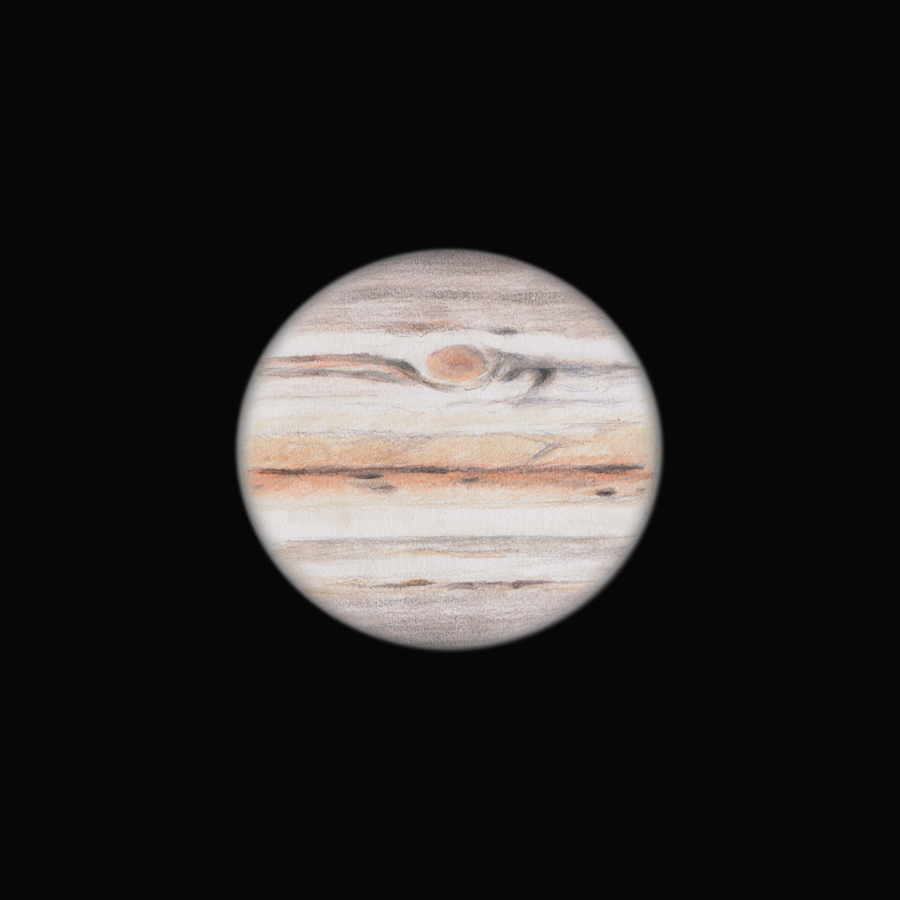
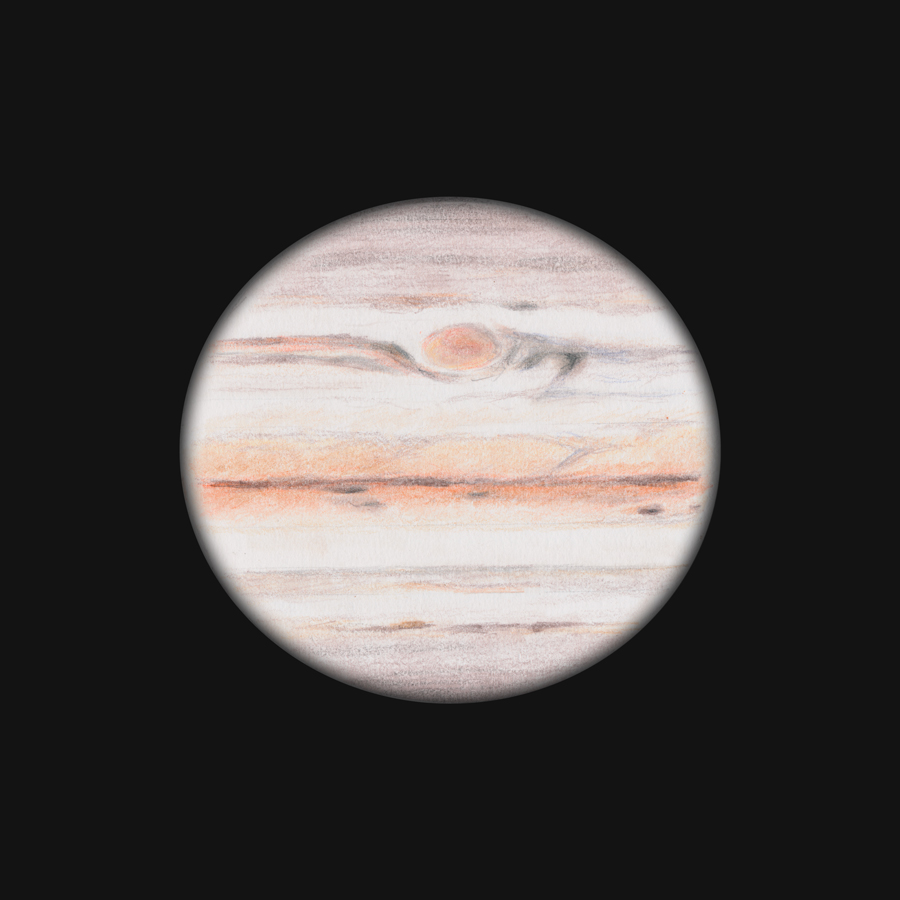
feat: new jupiter post

Changed region(s): [[0.1867, 0.2178, 0.8089, 0.8089]]

diff --git a/layouts/partials/sidebar.html b/layouts/partials/sidebar.html
@@ -1,7 +1,7 @@
 
 <div class="sidebar">
     <section class="mb-4">
-        <h3 class="font-bold text-sm uppercase mb-2 text-lightBlue"><a class="" href="/categories/">Catégories</a></h3>
+        <h3 class="font-bold text-sm uppercase mb-2 text-lightYellow"><a class="" href="/categories/">Catégories</a></h3>
         <ul class="text-xs text-white">
             {{ range .Site.Taxonomies.categories }}
             <li><a class="hover:underline" href="{{ .Page.Permalink }}">{{ .Page.Title }}</a> 
@@ -12,7 +12,7 @@
     </section>
 
     <section class="mb-4">
-        <h3 class="font-bold text-sm uppercase mb-2 text-lightBlue"><a class="" href="/tags/">Types</a></h3>
+        <h3 class="font-bold text-sm uppercase mb-2 text-lightYellow"><a class="" href="/tags/">Types</a></h3>
         <ul class="text-xs text-white">
             {{ range .Site.Taxonomies.tags }}
             <li><a class="hover:underline" href="{{ .Page.Permalink }}">{{ .Page.Title }}</a> 
@@ -22,7 +22,7 @@
     </section>
 
     <section class="mb-4">
-        <h3 class="font-bold text-sm uppercase mb-2 text-lightBlue"><a class="" href="/catalogs/">Catalogues</a></h3>
+        <h3 class="font-bold text-sm uppercase mb-2 text-lightYellow"><a class="" href="/catalogs/">Catalogues</a></h3>
         <ul class="text-xs text-white flex flex-row flex-wrap ">
             {{ range .Site.Taxonomies.catalogs }}
             <li class="mr-2"><a  class="hover:underline mr-1" href="{{ .Page.Permalink }}">.{{ .Page.Title }}</a><span class="text-gray1" style="font-size: 11px;">({{ .Count }})</span></li>
@@ -31,7 +31,7 @@
     </section>
 
     <section class="mb-4">
-        <h3 class="font-bold text-sm uppercase mb-2 text-lightBlue"><a class="" href="/constellations/">Constellations</a></h3>
+        <h3 class="font-bold text-sm uppercase mb-2 text-lightYellow"><a class="" href="/constellations/">Constellations</a></h3>
         <ul class="text-xs text-white flex flex-row flex-wrap">
             {{ range .Site.Taxonomies.constellations }}
             <li><a  class="hover:underline mr-2" href="{{ .Page.Permalink }}">.{{ .Page.Title }}</a></li>

diff --git a/layouts/_default/single.html b/layouts/_default/single.html
@@ -14,7 +14,7 @@
                 <h1 class="text-4xl lg:text-5xl font-serif font-bold mb-8"><span class="text-white bg-blue-custom leading-tight">{{ .Title }}</span></h1>
                 <div>
                     <ul class="text-gray1">
-                        {{ if isset .Params "date" }}<li class="text-lightBlue"><strong>Date : </strong><span class="text-sm">{{ dateFormat "02-01-2006" .Params.date }} {{ if isset .Params "hours" }} - {{ .Params.hours }}{{ end }}</span></li>{{ end }}
+                        {{ if isset .Params "date" }}<li class="text-lightYellow"><strong>Date : </strong><span class="text-sm">{{ dateFormat "02-01-2006" .Params.date }} {{ if isset .Params "hours" }} - {{ .Params.hours }}{{ end }}</span></li>{{ end }}
                         {{ if isset .Params "location" }}<li><strong class="text-white">Lieu : </strong><span class="text-sm">{{ .Params.location }}</span></li>{{ end }}
                         {{ if isset .Params "instrument" }}<li><strong class="text-white">Instrument : </strong><span class="text-sm">{{ .Params.instrument }}</span></li>{{ end }}
                         {{ if isset .Params "eyepiece" }}<li><strong class="text-white">Oculaire : </strong><span class="text-sm">{{ .Params.eyepiece }}</span></li>{{ end }}

diff --git a/layouts/partials/search-form.html b/layouts/partials/search-form.html
@@ -17,7 +17,7 @@
                   <span class="font-serif text-white" x-text="result.title"></span>
                   <span class="text-xs" x-text="result.date"></span>
                 </div>
-                <svg class="DocSearch-Hit-Select-Icon text-lightBlue" width="20" height="20" viewBox="0 0 20 20"><g stroke="currentColor" fill="none" fill-rule="evenodd" stroke-linecap="round" stroke-linejoin="round"><path d="M18 3v4c0 2-2 4-4 4H2"></path><path d="M8 17l-6-6 6-6"></path></g></svg>
+                <svg class="DocSearch-Hit-Select-Icon text-lightYellow" width="20" height="20" viewBox="0 0 20 20"><g stroke="currentColor" fill="none" fill-rule="evenodd" stroke-linecap="round" stroke-linejoin="round"><path d="M18 3v4c0 2-2 4-4 4H2"></path><path d="M8 17l-6-6 6-6"></path></g></svg>
               </a>
             </li>
         </template>

diff --git a/layouts/partials/thumbnail.html b/layouts/partials/thumbnail.html
@@ -8,7 +8,7 @@
       {{ if eq $image_ext "gif" }}
       <img class="w-full" :class="!darkMode ? 'filter invert':''" src="{{ $image.RelPermalink }}" />
       {{ else }}
-      <img class="w-full" :class="!darkMode ? 'filter invert':''" src="{{ ($image.Fill "500x400 jpg q75 Lanczos Smart").RelPermalink }}" srcset="{{ ($image.Fill "500x400 jpg q75 Lanczos Smart").RelPermalink }} 1x,{{ ($image.Fill "1000x800 jpg q75 Lanczos Smart").RelPermalink }} 2x"/>
+      <img class="w-full" :class="!darkMode ? 'filter invert':''" src="{{ ($image.Fill "500x400 jpg q75 Lanczos Center").RelPermalink }}" srcset="{{ ($image.Fill "500x400 jpg q75 Lanczos Center").RelPermalink }} 1x,{{ ($image.Fill "1000x800 jpg q75 Lanczos Center").RelPermalink }} 2x"/>
       {{ end }}
     </picture>
   {{ end }}

diff --git a/layouts/partials/card.html b/layouts/partials/card.html
@@ -14,7 +14,7 @@
                 </div>
             </div>
             {{ end }}
-            {{ if isset .context.Params "date" }}<span class="py-2 font-serif text-sm text-lightBlue">{{  dateFormat "02.01.2006" .context.Params.date }}</span>{{ end }}
+            {{ if isset .context.Params "date" }}<span class="py-2 font-serif text-lg text-lightYellow">{{  dateFormat "02.01.2006" .context.Params.date }}</span>{{ end }}
            
             <h2 class="mb-4 w-11/12 text-2xl lg:text-4xl font-bold font-serif"><a href="{{ .context.RelPermalink }}"><span class="text-white leading-tight bg-blue-custom">{{ .context.Title }}</span></a></h2>
              <div class="text-justify text-gray1 font-mono text-xs lg:text-sm ">{{ .context.Summary }}</div>

diff --git a/layouts/partials/image.html b/layouts/partials/image.html
@@ -13,7 +13,7 @@
       {{ if eq $image_ext "gif" }}
       <img :class="!darkMode ? 'filter invert':''" src="{{ $image.RelPermalink }}" />
       {{ else }}
-      <img :class="!darkMode ? 'filter invert':''" src="{{ ($image.Resize "800x jpg q75 Lanczos Smart").RelPermalink }}" srcset="{{ ($image.Resize "800x jpg q75 Lanczos Smart").RelPermalink }} 1x,{{ ($image.Resize "1600x jpg q75 Lanczos Smart").RelPermalink }} 2x"/>
+      <img :class="!darkMode ? 'filter invert':''" src="{{ ($image.Resize "800x jpg q75 Lanczos Center").RelPermalink }}" srcset="{{ ($image.Resize "800x jpg q75 Lanczos Center").RelPermalink }} 1x,{{ ($image.Resize "1600x jpg q75 Lanczos Center").RelPermalink }} 2x"/>
       {{ end }}
     </picture>
   </a>

diff --git a/layouts/partials/logo.html b/layouts/partials/logo.html
@@ -1,6 +1,6 @@
 
 
-<div class="flex flex-row lg:pl-0 top-0 my-5 w-full h-30 align-middle items-center text-lightBlue">
+<div class="flex flex-row lg:pl-0 top-0 my-5 w-full h-30 align-middle items-center text-lightYellow">
 
     <svg class="animate-pulse fill-current mr-2 lg:mr-4 w-10 lg:w-20" version="1.1" id="Layer_1" xmlns="http://www.w3.org/2000/svg" xmlns:xlink="http://www.w3.org/1999/xlink" x="0px" y="0px"
     viewBox="0 0 511.998 511.998" style="enable-background:new 0 0 511.998 511.998;" xml:space="preserve">

diff --git a/tailwind.config.js b/tailwind.config.js
@@ -12,7 +12,7 @@ module.exports = {
         gray1:'#7a828f',
         gray2:'#23232d',
         blue1:'#262b4c',
-        lightBlue:'#02ffe7'
+        lightYellow:'#e9bd15'
     }
   }
   },

diff --git a/assets/css/main.css b/assets/css/main.css
@@ -3,7 +3,7 @@
 @tailwind utilities;
 
 body {
-    background: #171721;
+    background: #292a35;
     color: rgba(156, 163, 175, var(--tw-text-opacity));
 }
 

diff --git a/content/2021/08/27-jupiter.md b/content/2021/08/27-jupiter.md
@@ -10,6 +10,12 @@ title: Jupiter
 instrument: T400 f/4.3
 eyepiece: Ethos 4.7mm
 ---
-Ma première tentative de dessin sur Jupiter après avoir longuement admiré les dessins de Fred Burgeot et Nicolas Biver. J'ai aussi picoré plein d'informations dans la bible du dessin astro : **{{< extlink  href="http://www.astrodessin.com/" title="ASTRODESSIN" >}}**. 
+Voici mes premiers dessins de Juipter après avoir longuement admiré les dessins de Fred Burgeot et Nicolas Biver. J'ai aussi picoré plein d'informations dans la bible du dessin astro : **{{< extlink  href="http://www.astrodessin.com/" title="ASTRODESSIN" >}}**. 
 
-Les conditions de seeing étaient assez moyennes. La grande tâche rouge était au méridien, précédée d'une zone de turbulence bien visible (à droite de la GTR sur mon dessin). La GTR est bien détachée de la bande équatoriale sud (SEB) et d'un teinte similaire à la bande équatoriale nord (NEB). Pas d'oval blanc détecté dans la bande tempérée sud sud (SSTB). La zone équatoriale (EZ) est très coloré (jaune/orange). J'ai du mal à y discerner des structures... peu de contraste. Coté bande équatoriale nord, bande assez fine très sombre au sud s'estompant vers le nord. Quelques spots très sombres et contrastés (barges) sont visibles dans la NEB. Encore plus au nord dans la bande tempérée nord nord (NNTB) je note juste quelques barres plus sombres.
+
+Depuis quelques jours les nuits clairs s'enchaînent en région Nantaise :) je vous partage donc mes premiers dessins Jovien datant du 27 et 28 Août 2021.
+L’exercice est pas évident, ça bouge très vite, j'ai un peu paniqué en me lançant dans le premier dessin, puis j'ai pris un peu d'assurance pour les deux autres.
+Je me suis donné max 10 minutes pour la mise en place des structures principales (que le temps passe vite ! :o) puis 20 min pour finaliser le dessin en essayant de grappiller le moindre détail.
+
+
+Les conditions de seeing étaient assez moyennes. La grande tâche rouge est au méridien, précédée d'une zone de turbulence bien visible (à droite de la GTR sur mon dessin). La GTR est bien détachée de la bande équatoriale sud (SEB) et d'une teinte similaire à la bande équatoriale nord (NEB). Pas d'oval blanc détecté dans la bande tempérée sud sud (SSTB). La zone équatoriale (EZ) est très colorée (jaune/orange). J'ai du mal à y discerner des structures... peu de contraste. Coté bande équatoriale nord, bande assez fine très sombre au sud s'estompant vers le nord. Quelques spots très sombres et contrastés (barges) sont visibles dans la NEB. Encore plus au nord dans la bande tempérée nord nord (NNTB) je note juste quelques barres plus sombres.

diff --git a/content/2021/08/28-2-jupiter.md b/content/2021/08/28-2-jupiter.md
@@ -6,9 +6,10 @@ hours: 22h14 UT
 image: dessins/j2021-08-28_22-14_gbe_small.jpg
 tags:
 - Jupiter
-title: Jupiter
+title: Jupiter + Io
 instrument: T400 f/4.3
 eyepiece: Ethos 4.7mm
 ---
-Toujours avec de bonnes conditions de seeing, j'ai attendu que Io passe devant le globe et projète son ombre.
-J'ai commencé la mise en place à 22h14 UT. Oval BA et WS6 sont visibles au couchant et deux autres spots blancs de l'autre coté. Je discerne quelques plumes très faiblement contrastées dans la zone équatoriale. Et plus au nord deux zones sombres dans la NEB et un petit spot précédé de structures plus sombres dans la bande tempérée nord nord (NNTB).
+Toujours avec de bonnes conditions de seeing, j'ai attendu que le satellite Io passe devant le globe et projette son ombre.
+J'ai commencé la mise en place à 22h14 UT. Après coup je me rend compte que j'ai pas mal de défauts sur ce dessin... La bande SSTB est placée trop au sud et la NNTB trop au nord, il en résulte une zone équatoriale bien trop haute... bref encore pas mal de progrès a faire. 
+Oval BA et WS6 sont visibles au couchant et deux autres spots blancs de l'autre coté. Je discerne quelques plumes très faiblement contrastées dans la zone équatoriale. Et plus au nord deux zones sombres dans la NEB et un petit spot précédé de structures plus sombres dans la bande tempérée nord nord (NNTB).
